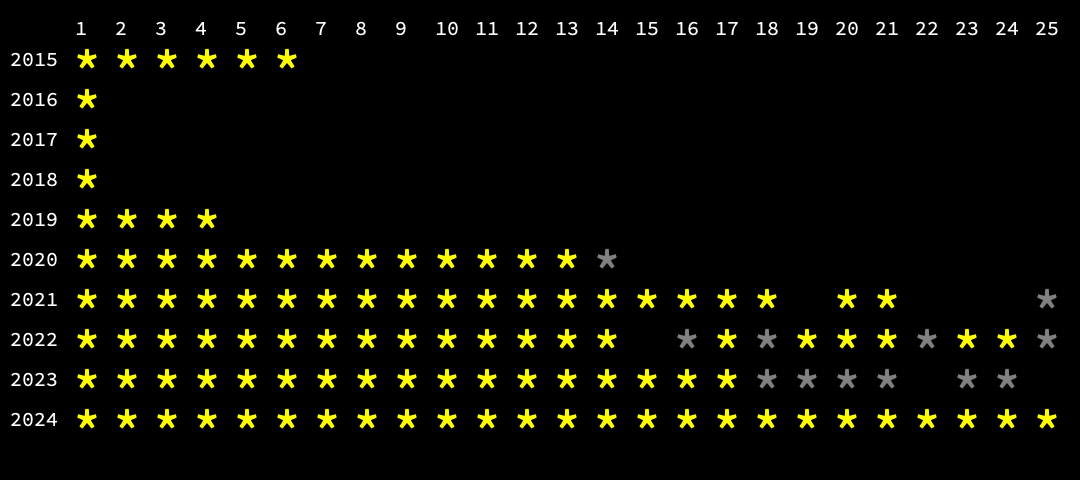
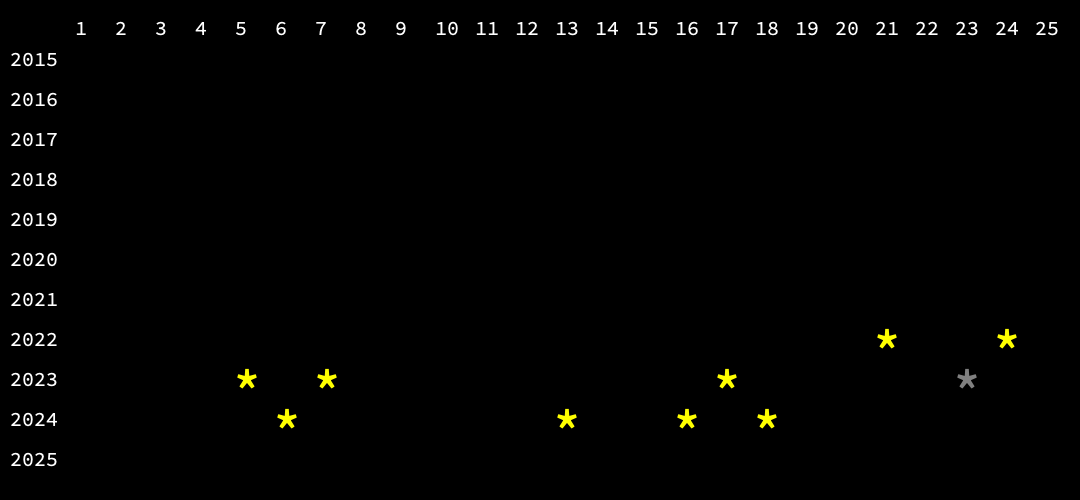
Running, ready for 2025.

diff --git a/src/main/java/com/simongarton/adventofcode/AdventOfCode.java b/src/main/java/com/simongarton/adventofcode/AdventOfCode.java
@@ -13,6 +13,7 @@ import com.simongarton.adventofcode.year2021.*;
 import com.simongarton.adventofcode.year2022.*;
 import com.simongarton.adventofcode.year2023.*;
 import com.simongarton.adventofcode.year2024.*;
+import com.simongarton.adventofcode.year2025.Year2025Day1;
 
 import javax.imageio.ImageIO;
 import java.awt.*;
@@ -22,8 +23,8 @@ import java.io.File;
 import java.io.FileWriter;
 import java.io.IOException;
 import java.nio.file.Path;
-import java.util.List;
 import java.util.*;
+import java.util.List;
 
 import static java.awt.image.BufferedImage.TYPE_INT_RGB;
 
@@ -39,22 +40,23 @@ public class AdventOfCode {
     private int height;
 
     final int startYear = 2015;
-    final int endYear = 2024;
+    final int endYear = 2025;
 
     public static void main(final String[] args) {
 
         // can I load these by reflection / inspection ?
         final AdventOfCode adventOfCode = new AdventOfCode();
-        adventOfCode.load2015();
-        adventOfCode.load2016();
-        adventOfCode.load2017();
-        adventOfCode.load2018();
-        adventOfCode.load2019();
-        adventOfCode.load2020();
-        adventOfCode.load2021();
-        adventOfCode.load2022();
-        adventOfCode.load2023();
-        adventOfCode.load2024();
+//        adventOfCode.load2015();
+//        adventOfCode.load2016();
+//        adventOfCode.load2017();
+//        adventOfCode.load2018();
+//        adventOfCode.load2019();
+//        adventOfCode.load2020();
+//        adventOfCode.load2021();
+//        adventOfCode.load2022();
+//        adventOfCode.load2023();
+//        adventOfCode.load2024();
+        adventOfCode.load2025();
         adventOfCode.run();
     }
 
@@ -317,6 +319,10 @@ public class AdventOfCode {
         this.challenges.add(new Year2024Day23());
         this.challenges.add(new Year2024Day24());
         this.challenges.add(new Year2024Day25());
+    }
+
+    private void load2025() {
+        this.challenges.add(new Year2025Day1());
     }
 
     private BufferedImage getBufferedImage() {

diff --git a/src/main/java/com/simongarton/adventofcode/year2025/Year2025Day1.java b/src/main/java/com/simongarton/adventofcode/year2025/Year2025Day1.java
@@ -1,0 +1,30 @@
+package com.simongarton.adventofcode.year2025;
+
+import com.simongarton.adventofcode.AdventOfCodeChallenge;
+
+public class Year2025Day1 extends AdventOfCodeChallenge {
+
+    // Copilot was off. IntelliJ full line completion was off.
+
+    @Override
+    public String title() {
+        return "Day 1: Historian Hysteria";
+    }
+
+    @Override
+    public Outcome run() {
+        return this.runChallenge(2025, 1);
+    }
+
+    @Override
+    public String part1(final String[] input) {
+
+        return String.valueOf(0);
+    }
+
+    @Override
+    public String part2(final String[] input) {
+
+        return String.valueOf(0);
+    }
+}

diff --git a/src/main/java/com/simongarton/adventofcode/year2025/Year2025Day0.java b/src/main/java/com/simongarton/adventofcode/year2025/Year2025Day0.java
@@ -1,0 +1,26 @@
+package com.simongarton.adventofcode.year2025;
+
+import com.simongarton.adventofcode.AdventOfCodeChallenge;
+
+public class Year2025Day0 extends AdventOfCodeChallenge {
+
+    @Override
+    public String title() {
+        return "Day 0: Template code";
+    }
+
+    @Override
+    public Outcome run() {
+        return this.runChallenge(2024, 0);
+    }
+
+    @Override
+    public String part1(final String[] input) {
+        return null;
+    }
+
+    @Override
+    public String part2(final String[] input) {
+        return null;
+    }
+}

diff --git a/src/main/java/com/simongarton/adventofcode/CurrentChallenge.java b/src/main/java/com/simongarton/adventofcode/CurrentChallenge.java
@@ -1,14 +1,14 @@
 package com.simongarton.adventofcode;
 
-import com.simongarton.adventofcode.year2015.Year2015Day8;
+import com.simongarton.adventofcode.year2025.Year2025Day1;
 
 public class CurrentChallenge {
 
-    public static String DAY = "8";
-    public static int YEAR = 2015;
+    public static String DAY = "1";
+    public static int YEAR = 2025;
 
     public static AdventOfCodeChallenge getCurrentChallenge() {
 
-        return new Year2015Day8();
+        return new Year2025Day1();
     }
 }

diff --git a/src/test/java/com/simongarton/adventofcode/year2024/Year2025Day17Test.java b/src/test/java/com/simongarton/adventofcode/year2024/Year2025Day17Test.java
@@ -14,7 +14,7 @@ import java.util.List;
 
 import static org.junit.jupiter.api.Assertions.assertEquals;
 
-class Year2024Day17Test {
+class Year2025Day17Test {
 
     @Test
     void testFirstNumber() {

diff --git a/progress.md b/progress.md
@@ -1,16 +1,17 @@
 ```
                 1111111111222222  
        1234567890123456789012345  
-2015 : ✓✓✓✓✓✓  
-2016 : ✓  
-2017 : ✓  
-2018 : ✓  
-2019 : ✓✓✓✓  
-2020 : ✓✓✓✓✓✓✓✓✓✓✓✓✓.  
-2021 : ✓✓✓✓✓✓✓✓✓✓✓✓✓✓✓✓✓✓✓✓.  
-2022 : ✓✓✓✓✓✓✓✓✓✓✓✓✓✓.✓.✓✓✓.✓✓.  
-2023 : ✓✓✓✓✓✓✓✓✓✓✓✓✓✓✓✓✓......  
-2024 : ✓✓✓✓✓✓✓✓✓✓✓✓✓✓✓✓✓✓✓✓✓✓✓✓✓  
+2015 :   
+2016 :   
+2017 :   
+2018 :   
+2019 :   
+2020 :   
+2021 :   
+2022 : ✓✓  
+2023 : ✓✓✓.  
+2024 : ✓✓✓✓  
+2025 :   
        1234567890123456789012345  
                 1111111111222222  
 ```

diff --git a/readme_2025.md b/readme_2025.md
@@ -1,0 +1,5 @@
+# Advent of Code 2025
+
+## 2025
+
+![Oh no, not again](images/whale-and-petunias.png)
